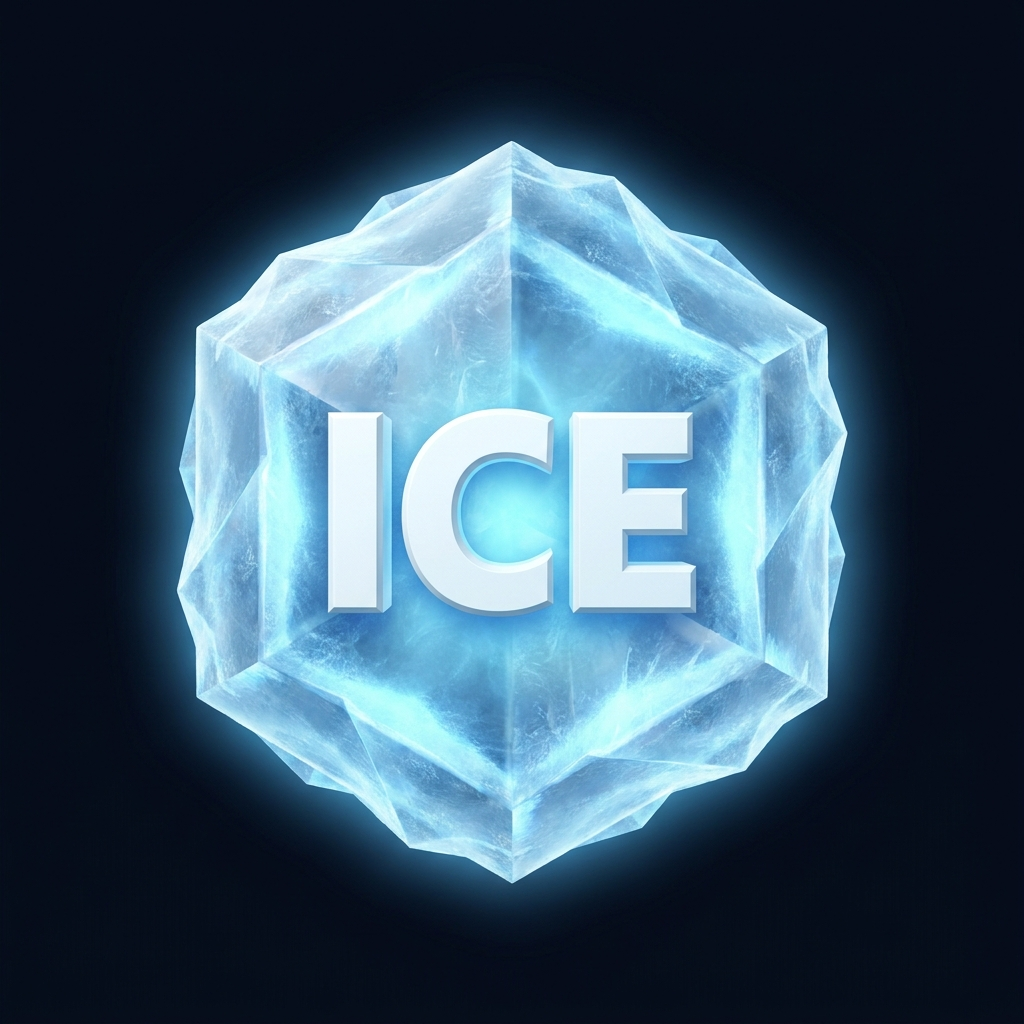
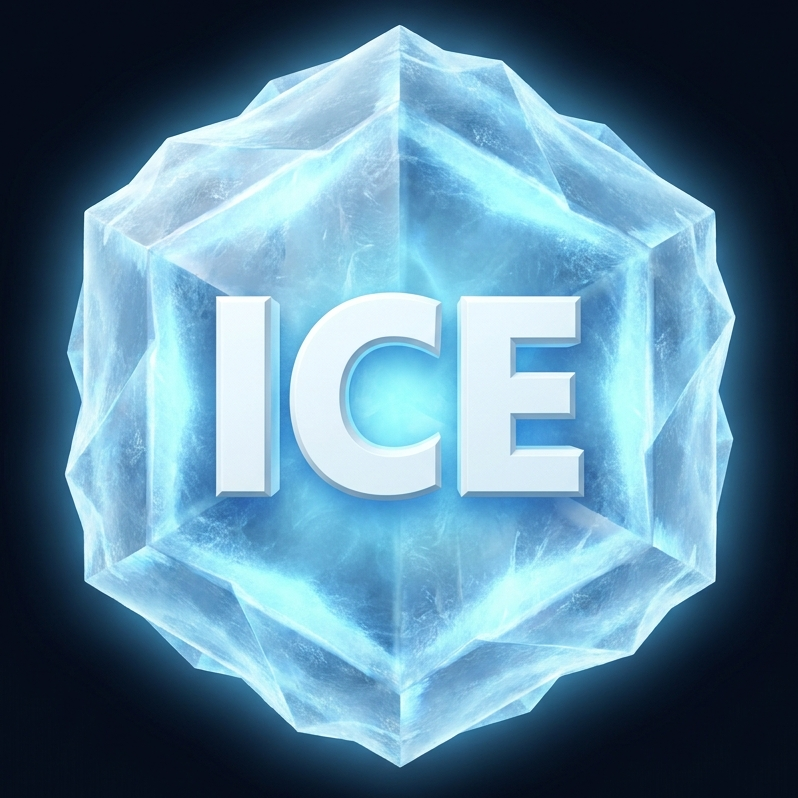
edited the images/bettered the numbers ui

diff --git a/course_predator/client/renderer.py b/course_predator/client/renderer.py
@@ -1,8 +1,5 @@
-"""Pygame drawing HELPERS for game and replay screens."""
-
-from __future__ import annotations
-
 import math
+import os
 import time
 
 import pygame
@@ -25,6 +22,24 @@ class Renderer:
         self.title = pygame.font.SysFont("arial", 56, bold=True)
         self.display_stamina: dict[int, float] = {1: 100.0, 2: 100.0}
         self.display_stress: dict[int, float] = {1: 0.0, 2: 0.0}
+
+        self.object_images = {}
+        asset_dir = os.path.join(os.path.dirname(__file__), '../../assets')
+        image_map = {
+            'shield': 'shield.jpg',
+            'ice': 'ice.png',
+            'illusion': 'illusion.png',
+            'normal_positive': 'normal_positive.png',
+            'normal_negative': 'normal_negative.png',
+        }
+        for kind, filename in image_map.items():
+            path = os.path.join(asset_dir, filename)
+            try:
+                img = pygame.image.load(path).convert_alpha()
+                self.object_images[kind] = img
+            except Exception:
+                self.object_images[kind] = None   # will fallback to primitives if image missing
+        # --- end image loading ---
 
     def draw_background(self) -> None:
         self.screen.fill((10, 13, 21))
@@ -126,43 +141,59 @@ class Renderer:
             y = int(shape["y"]) + HUD_HEIGHT
             radius = int(shape["radius"])
             kind = shape["kind"]
-            if kind == "shield":
-                color = (83, 226, 169)
-                pygame.draw.polygon(
-                    self.screen,
-                    color,
-                    [
-                        (x, y - radius),
-                        (x + radius, y - radius // 3),
-                        (x + radius // 2, y + radius),
-                        (x, y + radius // 2),
-                        (x - radius // 2, y + radius),
-                        (x - radius, y - radius // 3),
-                    ],
-                )
-                text = "SH"
-            elif kind == "ice":
-                color = (100, 205, 255)
-                points = [
-                    (x + math.cos(i * math.pi / 3) * radius, y + math.sin(i * math.pi / 3) * radius) for i in range(6)
-                ]
-                pygame.draw.polygon(self.screen, color, points)
-                text = "ICE"
-            elif kind == "illusion":
-                color = (184, 116, 255)
-                pygame.draw.circle(self.screen, color, (x, y), radius, 3)
+
+            if kind == 'shield':
+                image_key = 'shield'
+                text = ""
+            elif kind == 'ice':
+                image_key = 'ice'
+                text = ""
+            elif kind == 'illusion':
+                image_key = 'illusion'
                 text = score_text(float(shape["points"]))
             else:
                 points = int(shape["points"])
-                color = (255, 202, 84) if points > 0 else (255, 101, 113)
-                pygame.draw.circle(self.screen, color, (x, y), radius)
-                text = score_text(float(points))
+                image_key = 'normal_positive' if points > 0 else 'normal_negative'
+                text = score_text(float(points)) if points > 0 else text = str(abs(points))
 
-            pygame.draw.circle(self.screen, (255, 255, 255), (x, y), radius, 2)
-            text_surface = self.font.render(text, True, (11, 16, 24))
+            img = self.object_images.get(image_key)
+            if img is not None:
+                scaled_img = pygame.transform.scale(img, (radius * 2, radius * 2))
+                img_rect = scaled_img.get_rect(center=(x, y))
+                self.screen.blit(scaled_img, img_rect)
+            else: # fallback
+                if kind == 'shield':
+                    color = (83, 226, 169)
+                    pygame.draw.polygon(
+                        self.screen,
+                        color,
+                        [
+                            (x, y - radius),
+                            (x + radius, y - radius // 3),
+                            (x + radius // 2, y + radius),
+                            (x, y + radius // 2),
+                            (x - radius // 2, y + radius),
+                            (x - radius, y - radius // 3),
+                        ],
+                    )
+                elif kind == 'ice':
+                    color = (100, 205, 255)
+                    points = [
+                        (x + math.cos(i * math.pi / 3) * radius, y + math.sin(i * math.pi / 3) * radius) for i in range(6)
+                    ]
+                    pygame.draw.polygon(self.screen, color, points)
+                elif kind == 'illusion':
+                    color = (184, 116, 255)
+                    pygame.draw.circle(self.screen, color, (x, y), radius, 3)
+                else:
+                    points = int(shape["points"])
+                    color = (255, 202, 84) if points > 0 else (255, 101, 113)
+                    pygame.draw.circle(self.screen, color, (x, y), radius)
+
+            text_surface = self.font.render(text, True, (255, 255, 255))
             if kind == "illusion":
                 text_surface = self.font.render(text, True, (218, 190, 255))
-            self.screen.blit(text_surface, text_surface.get_rect(center=(x, y)))
+            self.screen.blit(text_surface, text_surface.get_rect(center=(x+6, y)))
             ttl = float(shape.get("ttl", 0.0))
             lifetime = max(0.1, float(shape.get("lifetime", 1.0)))
             arc_rect = pygame.Rect(x - radius - 5, y - radius - 5, radius * 2 + 10, radius * 2 + 10)
